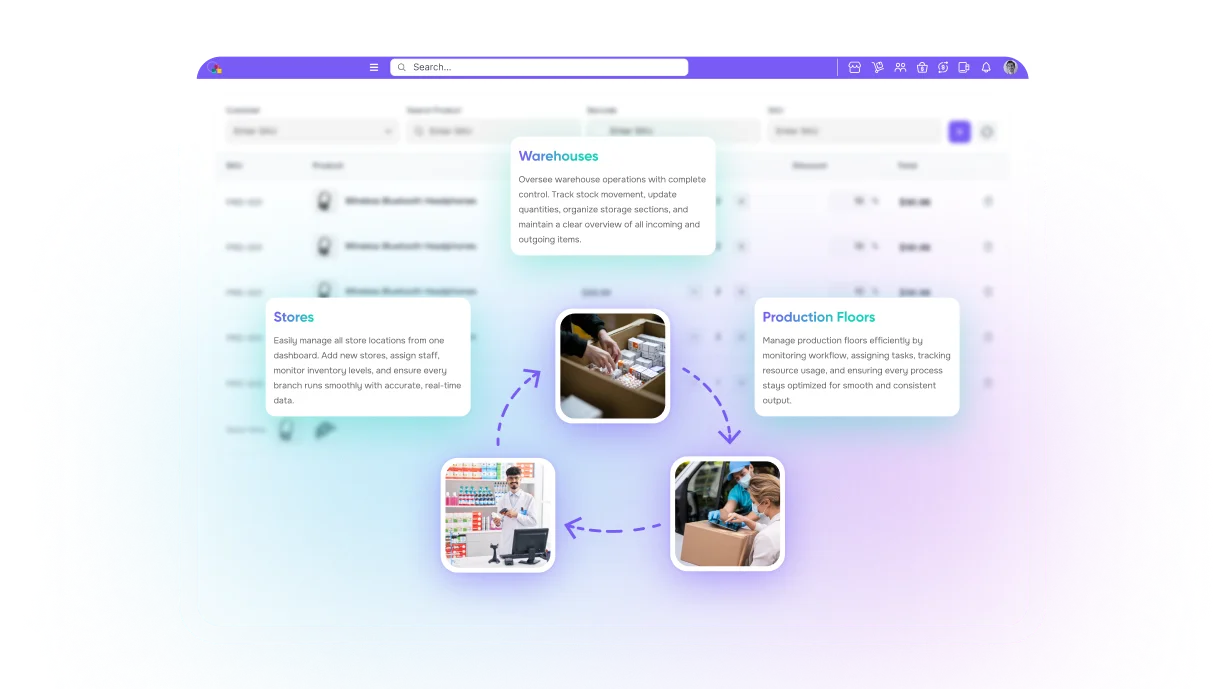
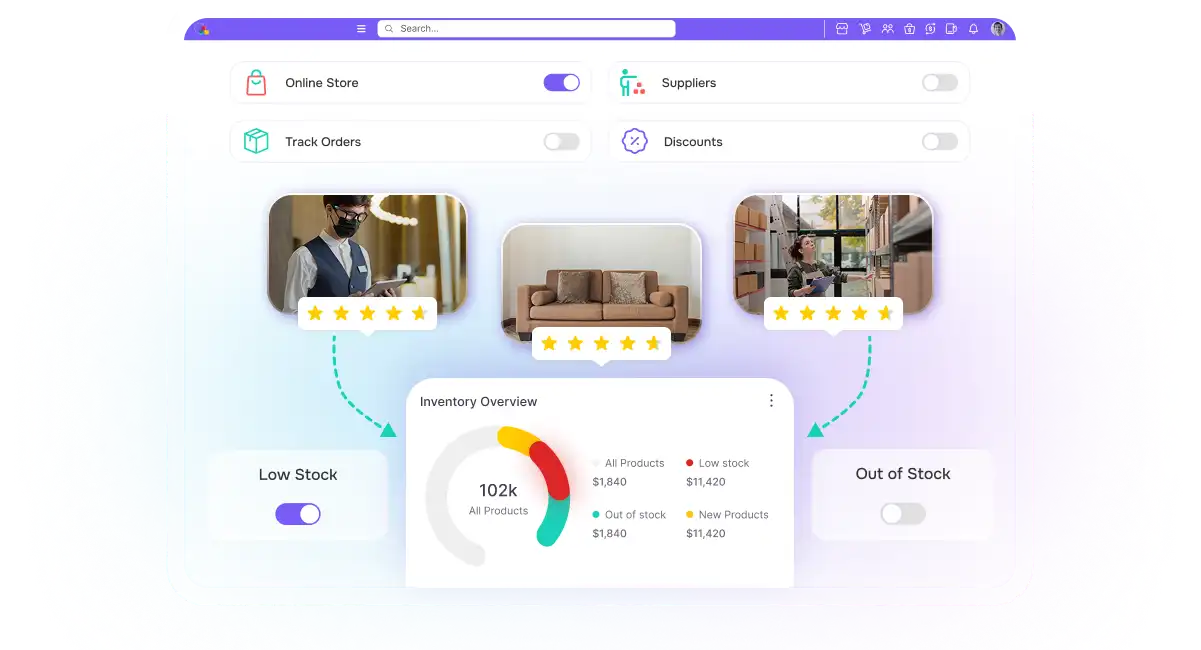
updated content

diff --git a/src/constant/subindustries/hotelInventoryManagementSoftwareData.ts b/src/constant/subindustries/hotelInventoryManagementSoftwareData.ts
@@ -254,8 +254,8 @@ export const HOTEL_INVENTORY_TESTIMONIAL_DATA = {
     paragraph: "",
     secondHeading: "Easy Hotel Inventory Management",
     secondDescription: "Get full control over your hotel's inventory using a modern system that is designed for hospitality operations. Increase accuracy, cut waste and streamline the entire supply chain, while maintaining high standards of service.",
-    whyChooseTitle: "Why Choose Owners Inventory for Healthcare Inventory Management?",
-    whyChooseDescription: "Our inventory management software handles tasks efficiently where accuracy is crucial. It manages complex healthcare inventory with structured workflows and reduces the chances of human errors by eliminating manuzal processes.",
+    whyChooseTitle: "Why Choose Owners Inventory for Hotel Inventory Management?",
+    whyChooseDescription: "Our inventory management software handles tasks efficiently where accuracy is crucial. It manages complex hotel inventory with structured workflows and reduces the chances of human errors by eliminating manual processes.",
 };
 
 export const HOTEL_INVENTORY_TESTIMONIALS = [
@@ -401,7 +401,7 @@ export const HOTEL_INVENTORY_TESTIMONIAL_FEATURES = [
     {
         id: "8",
         title: "Continuous Support",
-        description: "Connect easily with accounting and procurement systems for a seamless workflow. It reduces the need for manual data entry and improves accuracy so that all business processes are coordinated efficiently.",
+        description: "We provide ongoing support for your system to make sure it runs at its best. Our team continuously updates the software to meet industry requirements, ensuring that you are always up-to-date with the latest tools and practices for hotel inventory management.",
         icon: "testWhychoseIcon8",
     },
 ];
@@ -410,10 +410,10 @@ export const HOTEL_INVENTORY_TOOLS_DATA = {
     heading: "Integration and Tools",
     paragraph: "Owners Inventory is integrated with accounting platforms, procurement systems, hotel management systems, and supplier systems. It reduces the manual workload, removes duplication of data, and streamlines operational workflows throughout your business.",
     tools: [
-        { id: 1, name: "Shopify", image: "/assets/home-page-images/tools-section/shopify.svg" },
-        { id: 2, name: "WooCommerce", image: "/assets/home-page-images/tools-section/woocomerce.svg" },
-        { id: 3, name: "QuickBooks", image: "/assets/home-page-images/tools-section/quick-book.svg" },
-        { id: 4, name: "Xero", image: "/assets/home-page-images/tools-section/xero.svg" },
-        { id: 5, name: "Stripe", image: "/assets/home-page-images/tools-section/stripe.svg" },
+        { id: 1, name: "QuickBooks", image: "/assets/home-page-images/tools-section/quick-book.svg" },
+        { id: 2, name: "Xero", image: "/assets/home-page-images/tools-section/xero.svg" },
+        { id: 3, name: "Stripe", image: "/assets/home-page-images/tools-section/stripe.svg" },
+        //   { id: 4, name: "Shopify", image: "/assets/home-page-images/tools-section/shopify.svg" },
+        // { id: 5, name: "WooCommerce", image: "/assets/home-page-images/tools-section/woocomerce.svg" },
     ],
 };